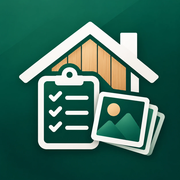
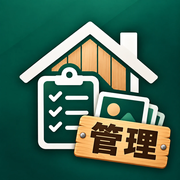
genba-viewer: 管理者用アイコン（木の札「管理」）に差し替え

diff --git a/genba-viewer/service-worker.js b/genba-viewer/service-worker.js
@@ -1,7 +1,7 @@
 // キャッシュ対象を変更したら CACHE_VERSION を上げること
-const CACHE_VERSION = 3;
+const CACHE_VERSION = 4;
 const CACHE_NAME = `genba-viewer-v${CACHE_VERSION}`;
-const APP_SHELL = ['./', 'index.html', 'app.js?v=2', 'demo.js?v=1', 'style.css?v=3', 'manifest.webmanifest', 'icon-96.png', 'icon-180.png', 'icon-192.png', 'icon-512.png', 'art/hero-frame.webp', 'art/hero-sky.webp', 'art/hero-icons.webp', 'art/character.webp', 'art/site-bg.webp', 'art/g1.webp', 'art/g2.webp', 'art/g3.webp', 'art/g4.webp', 'art/g5.webp', 'art/g6.webp'];
+const APP_SHELL = ['./', 'index.html', 'app.js?v=2', 'demo.js?v=1', 'style.css?v=3', 'manifest.webmanifest', 'icon-96.png?v=2', 'icon-180.png?v=2', 'icon-192.png?v=2', 'icon-512.png?v=2', 'art/hero-frame.webp', 'art/hero-sky.webp', 'art/hero-icons.webp', 'art/character.webp', 'art/site-bg.webp', 'art/g1.webp', 'art/g2.webp', 'art/g3.webp', 'art/g4.webp', 'art/g5.webp', 'art/g6.webp'];
 // 報告データ（社内データ）はキャッシュしない。PCの Box Drive フォルダから毎回読む
 
 self.addEventListener('install', (event) => {

diff --git a/genba-viewer/index.html b/genba-viewer/index.html
@@ -6,15 +6,15 @@
 <meta name="theme-color" content="#f7f5ef">
 <title>現場ナビ 見守り</title>
 <link rel="manifest" href="manifest.webmanifest">
-<link rel="icon" type="image/png" sizes="96x96" href="icon-96.png">
-<link rel="apple-touch-icon" href="icon-180.png">
+<link rel="icon" type="image/png" sizes="96x96" href="icon-96.png?v=2">
+<link rel="apple-touch-icon" href="icon-180.png?v=2">
 <link rel="stylesheet" href="style.css?v=3">
 </head>
 <body>
 
 <header class="appHeader">
   <a class="brand" href="#/home">
-    <img src="icon-96.png" class="brandIcon" alt="">
+    <img src="icon-96.png?v=2" class="brandIcon" alt="">
     <span id="appName" class="brandName">現場ナビ 見守り</span><span class="brandTag">管理者ビューア</span>
   </a>
   <div class="headerSpacer"></div>
